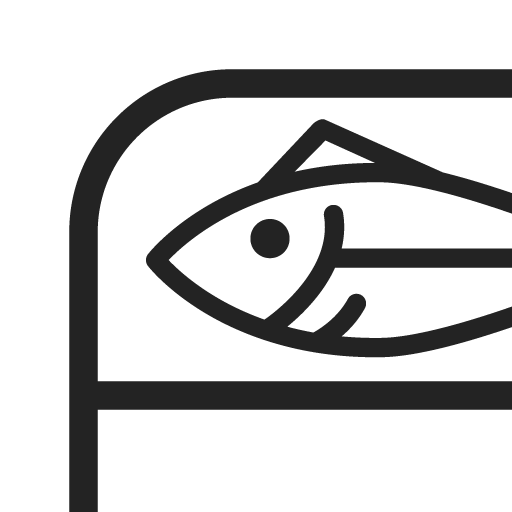
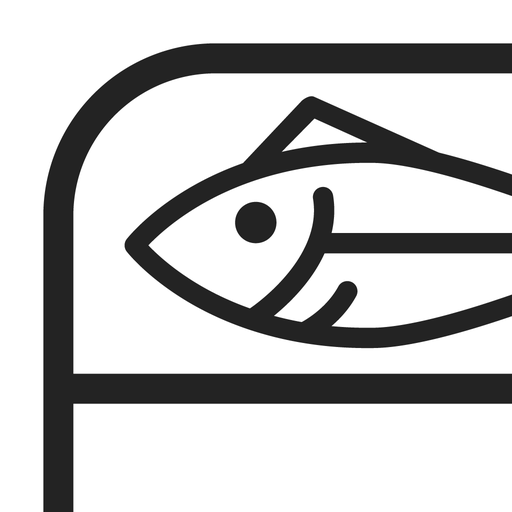
setting

diff --git a/index.html b/index.html
@@ -185,12 +185,12 @@
         </div>
       </div>
       <div class="field-row">
-        <label>枠 <span id="spacingVal">8</span>px</label>
-        <input type="range" id="spacingSlider" min="0" max="50" value="8">
+        <label>枠 <span id="spacingVal">25</span>px</label>
+        <input type="range" id="spacingSlider" min="0" max="50" value="25">
       </div>
       <div class="field-row">
-        <label>角丸 <span id="radiusVal">0</span>px</label>
-        <input type="range" id="radiusSlider" min="0" max="100" value="0">
+        <label>角丸 <span id="radiusVal">30</span>px</label>
+        <input type="range" id="radiusSlider" min="0" max="100" value="30">
       </div>
     </div>
 
@@ -210,12 +210,12 @@
           </div>
         </div>
         <div class="field-row">
-          <label>サイズ <span id="textSizeVal">150</span></label>
-          <input type="range" id="textSizeSlider" min="80" max="300" value="150">
+          <label>サイズ <span id="textSizeVal">200</span></label>
+          <input type="range" id="textSizeSlider" min="80" max="300" value="200">
         </div>
         <div class="field-row">
-          <label>太さ <span id="textWeightVal">400</span></label>
-          <input type="range" id="textWeightSlider" min="100" max="900" step="100" value="400">
+          <label>太さ <span id="textWeightVal">600</span></label>
+          <input type="range" id="textWeightSlider" min="100" max="900" step="100" value="600">
         </div>
         <div class="field-row toggles">
           <button id="italicBtn" class="toggle-btn italic-label" data-key="italic">斜</button>
@@ -224,8 +224,8 @@
           <button id="alignRight" class="toggle-btn" data-align="right">右</button>
         </div>
         <div class="field-row">
-          <label>文字間隔 <span id="textLetterSpacingVal">0</span>px</label>
-          <input type="range" id="textLetterSpacingSlider" min="-5" max="100" value="0">
+          <label>文字間隔 <span id="textLetterSpacingVal">30</span>px</label>
+          <input type="range" id="textLetterSpacingSlider" min="-5" max="100" value="30">
         </div>
         <div class="field-row">
           <label>行間 <span id="textLineHeightVal">1.2</span></label>
@@ -252,8 +252,8 @@
           <input type="range" id="shadowDistSlider" min="0" max="60" value="4">
         </div>
         <div class="field-row">
-          <label>ぼかし <span id="shadowBlurVal">6</span></label>
-          <input type="range" id="shadowBlurSlider" min="0" max="60" value="6">
+          <label>ぼかし <span id="shadowBlurVal">20</span></label>
+          <input type="range" id="shadowBlurSlider" min="0" max="60" value="20">
         </div>
         <div class="field-row">
           <label>角度 <span id="shadowAngleVal">45</span>°</label>

diff --git a/js/state.js b/js/state.js
@@ -16,10 +16,10 @@ export function uid(prefix = "id") {
 
 export function defaultShadow() {
   return {
-    enabled: false,
+    enabled: true,
     color: "#000000",
     distance: 4,
-    blur: 6,
+    blur: 20,
     angle: 45,
     opacity: 60,
   };
@@ -29,17 +29,17 @@ export function defaultTextObj(canvasW, canvasH, orientation = "horizontal") {
   return {
     id: uid("text"),
     content: orientation === "vertical" ? "縦書き" : "テキスト",
-    font: "'Noto Sans JP', 'Hiragino Sans', sans-serif",
-    size: 150,
+    font: "'Noto Serif JP', 'Hiragino Mincho ProN', serif",
+    size: 200,
     color: "#ffffff",
-    weight: 400,
+    weight: 600,
     italic: false,
-    align: "center",
+    align: "left",
     orientation, // 'horizontal' | 'vertical'
     rotation: 0, // no longer user-editable; kept at 0
     opacity: 100,
     lineHeight: 1.2,
-    letterSpacing: 0,
+    letterSpacing: 30,
     x: canvasW / 2,
     y: canvasH / 2,
     shadow: defaultShadow(),
@@ -55,8 +55,8 @@ export function createDefaultState(count, ratioId) {
     photoCount: count,
     ratioId,
     bgColor: "#ffffff",
-    spacing: 8,
-    cornerRadius: 0,
+    spacing: 25,
+    cornerRadius: 30,
     layoutVariant: 0, // 0 = standard grid; 1 = alternate (only meaningful for counts 2/6/8)
     photos: Array.from({ length: count }, defaultPhotoSlotData),
     texts: [],

diff --git a/js/main.js b/js/main.js
@@ -13,7 +13,7 @@ const inlineTextEditArea = document.getElementById("inlineTextEditArea");
 const photoActionBar = document.getElementById("photoActionBar");
 const textActionBar = document.getElementById("textActionBar");
 
-const DEFAULT_PHOTO_COUNT = 4;
+const DEFAULT_PHOTO_COUNT = 1;
 const DEFAULT_RATIO_ID = "1:1";
 
 const startScreen = document.getElementById("startScreen");
